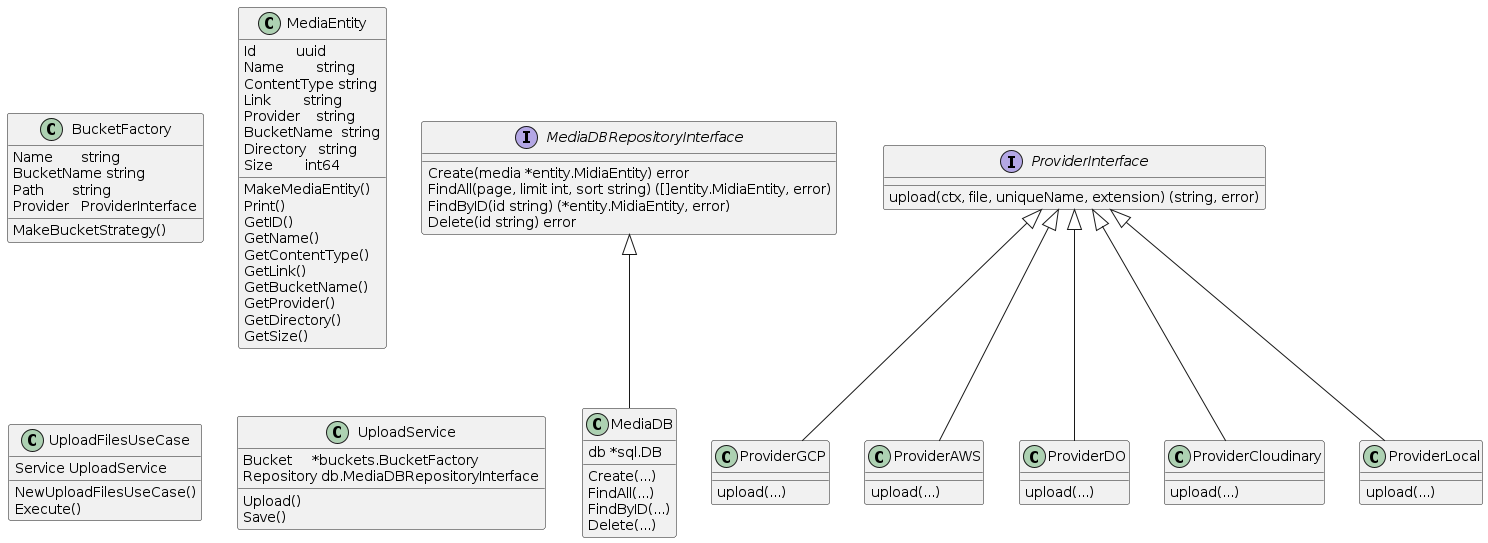
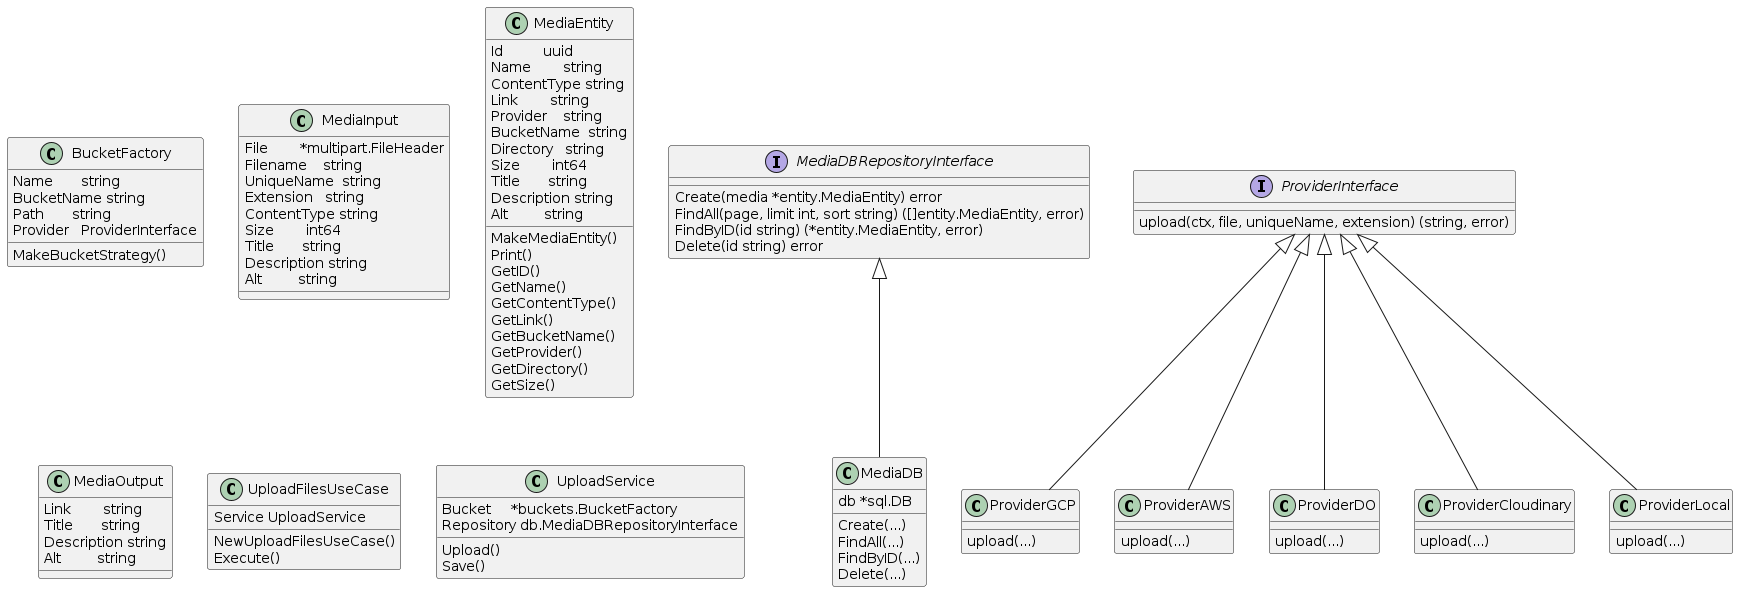
Altera o nome de MidiaEntity para MediaEntity #9

diff --git a/internal/adapters/db/media.go b/internal/adapters/db/media.go
@@ -10,9 +10,9 @@ import (
 )
 
 type MediaDBRepositoryInterface interface {
-	Create(media *entity.MidiaEntity) error
-	FindAll(page, limit int, sort string) ([]entity.MidiaEntity, error)
-	FindByID(id string) (*entity.MidiaEntity, error)
+	Create(media *entity.MediaEntity) error
+	FindAll(page, limit int, sort string) ([]entity.MediaEntity, error)
+	FindByID(id string) (*entity.MediaEntity, error)
 	Delete(id string) error
 }
 
@@ -24,7 +24,7 @@ func NewMediaDB(db *sql.DB) *MediaDB {
 	return &MediaDB{db: db}
 }
 
-func (m *MediaDB) Create(media *entity.MidiaEntity) error {
+func (m *MediaDB) Create(media *entity.MediaEntity) error {
 	log.Println("call create from db adapter")
 
 	stmt, err := m.db.Prepare(`INSERT INTO medias(id, name, content_type, link, provider, bucket_name, directory, size) VALUES(?,?,?,?,?,?,?,?)`)
@@ -52,8 +52,8 @@ func (m *MediaDB) Create(media *entity.MidiaEntity) error {
 	return nil
 }
 
-func (m *MediaDB) FindAll(page, limit int, sort string) ([]entity.MidiaEntity, error) {
-	var medias []entity.MidiaEntity
+func (m *MediaDB) FindAll(page, limit int, sort string) ([]entity.MediaEntity, error) {
+	var medias []entity.MediaEntity
 	var err error
 
 	if page <= 0 {
@@ -77,7 +77,7 @@ func (m *MediaDB) FindAll(page, limit int, sort string) ([]entity.MidiaEntity, e
 	defer rows.Close()
 
 	for rows.Next() {
-		var media entity.MidiaEntity
+		var media entity.MediaEntity
 		err = rows.Scan(&media.Id, &media.Name, &media.ContentType, &media.Link, &media.Provider, &media.BucketName, &media.Directory, &media.Size)
 		if err != nil {
 			return nil, err
@@ -87,8 +87,8 @@ func (m *MediaDB) FindAll(page, limit int, sort string) ([]entity.MidiaEntity, e
 	return medias, err
 }
 
-func (m *MediaDB) FindByID(id string) (*entity.MidiaEntity, error) {
-	var media entity.MidiaEntity
+func (m *MediaDB) FindByID(id string) (*entity.MediaEntity, error) {
+	var media entity.MediaEntity
 	stmt, err := m.db.Prepare("SELECT id, name, content_type, link, provider, bucket_name, directory, size from medias where id = ?")
 	if err != nil {
 		return nil, err

diff --git a/internal/domain/entity/entities.go b/internal/domain/entity/entities.go
@@ -8,7 +8,7 @@ import (
 
 // sqlite>create table IF NOT EXISTS medias(id text primary key, name text, content_type text, link text, provider text, bucket_name text, directory text, size integer);
 
-type MidiaEntity struct {
+type MediaEntity struct {
 	Id          entity.ID `valid:"uuidv4" json:"id"`
 	Name        string    `valid:"required" json:"name"`
 	ContentType string    `valid:"required" json:"content_type"`
@@ -27,8 +27,8 @@ func MakeMediaEntity(
 	bucketName,
 	directory string,
 	size int64,
-) *MidiaEntity {
-	return &MidiaEntity{
+) *MediaEntity {
+	return &MediaEntity{
 		Id:          entity.NewID(),
 		Name:        name,
 		ContentType: contenttype,
@@ -40,38 +40,38 @@ func MakeMediaEntity(
 	}
 }
 
-func (m *MidiaEntity) Print() string {
+func (m *MediaEntity) Print() string {
 	return fmt.Sprintf("{Id:%d, Title:%s, Name:%s}", m.Id, m.Name, m.ContentType)
 }
 
-func (m *MidiaEntity) GetID() string {
+func (m *MediaEntity) GetID() string {
 	return m.Id.String()
 }
 
-func (m *MidiaEntity) GetName() string {
+func (m *MediaEntity) GetName() string {
 	return m.Name
 }
 
-func (m *MidiaEntity) GetContentType() string {
+func (m *MediaEntity) GetContentType() string {
 	return m.ContentType
 }
 
-func (m *MidiaEntity) GetLink() string {
+func (m *MediaEntity) GetLink() string {
 	return m.Link
 }
 
-func (m *MidiaEntity) GetBucketName() string {
+func (m *MediaEntity) GetBucketName() string {
 	return m.BucketName
 }
 
-func (m *MidiaEntity) GetProvider() string {
+func (m *MediaEntity) GetProvider() string {
 	return m.Provider
 }
 
-func (m *MidiaEntity) GetDirectory() string {
+func (m *MediaEntity) GetDirectory() string {
 	return m.Directory
 }
 
-func (m *MidiaEntity) GetSize() int64 {
+func (m *MediaEntity) GetSize() int64 {
 	return m.Size
 }

diff --git a/internal/application/usecase/upload/upload_service.go b/internal/application/usecase/upload/upload_service.go
@@ -34,7 +34,7 @@ func (s *UploadService) Upload(ctx context.Context, input_params MediaInput) (st
 	return result, nil
 }
 
-func (s *UploadService) Save(ctx context.Context, media *entity.MidiaEntity) error {
+func (s *UploadService) Save(ctx context.Context, media *entity.MediaEntity) error {
 	log.Println("call save service")
 	err := s.Repository.Create(media)
 
